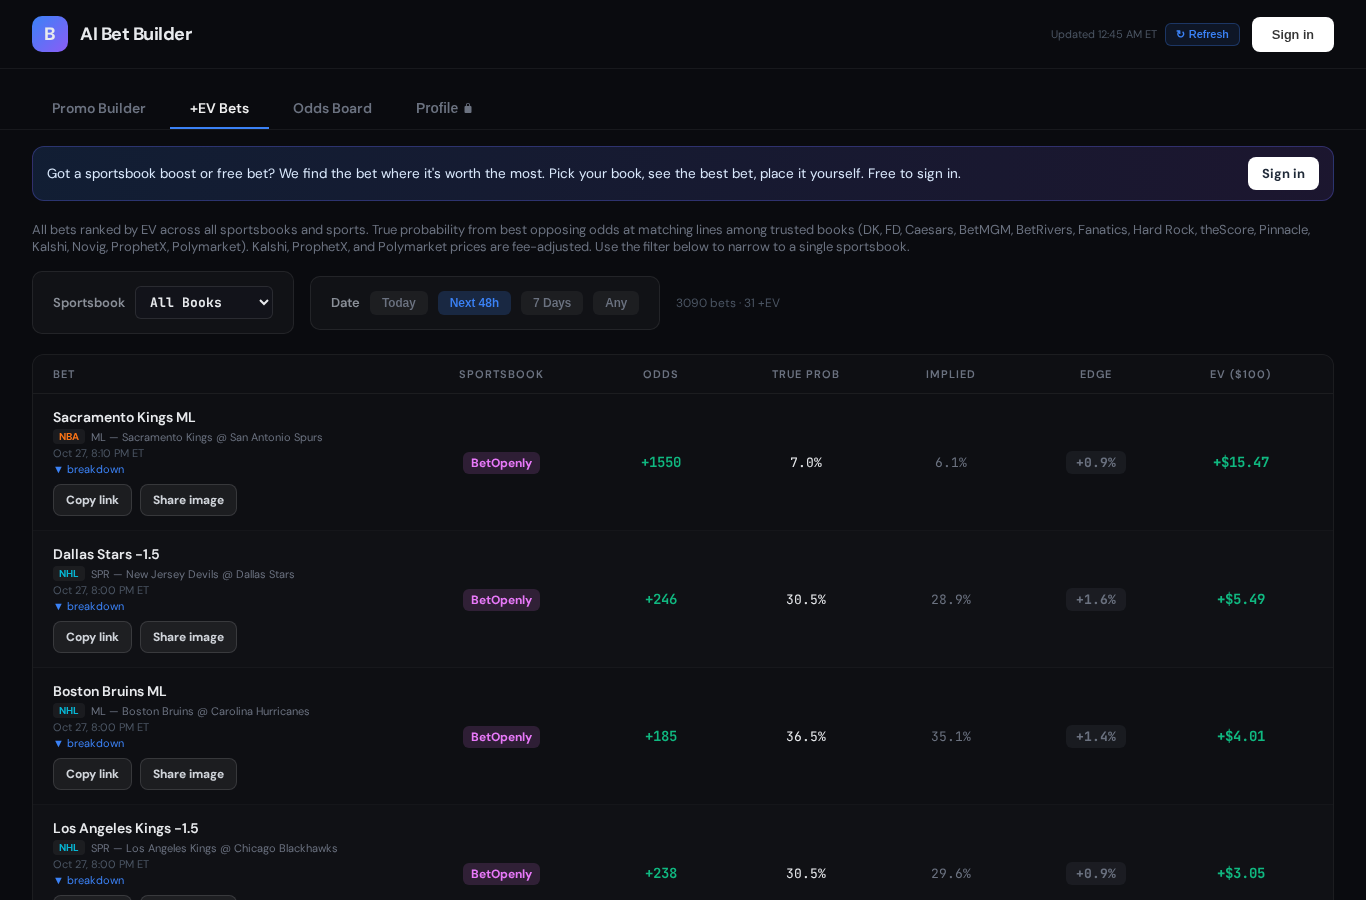
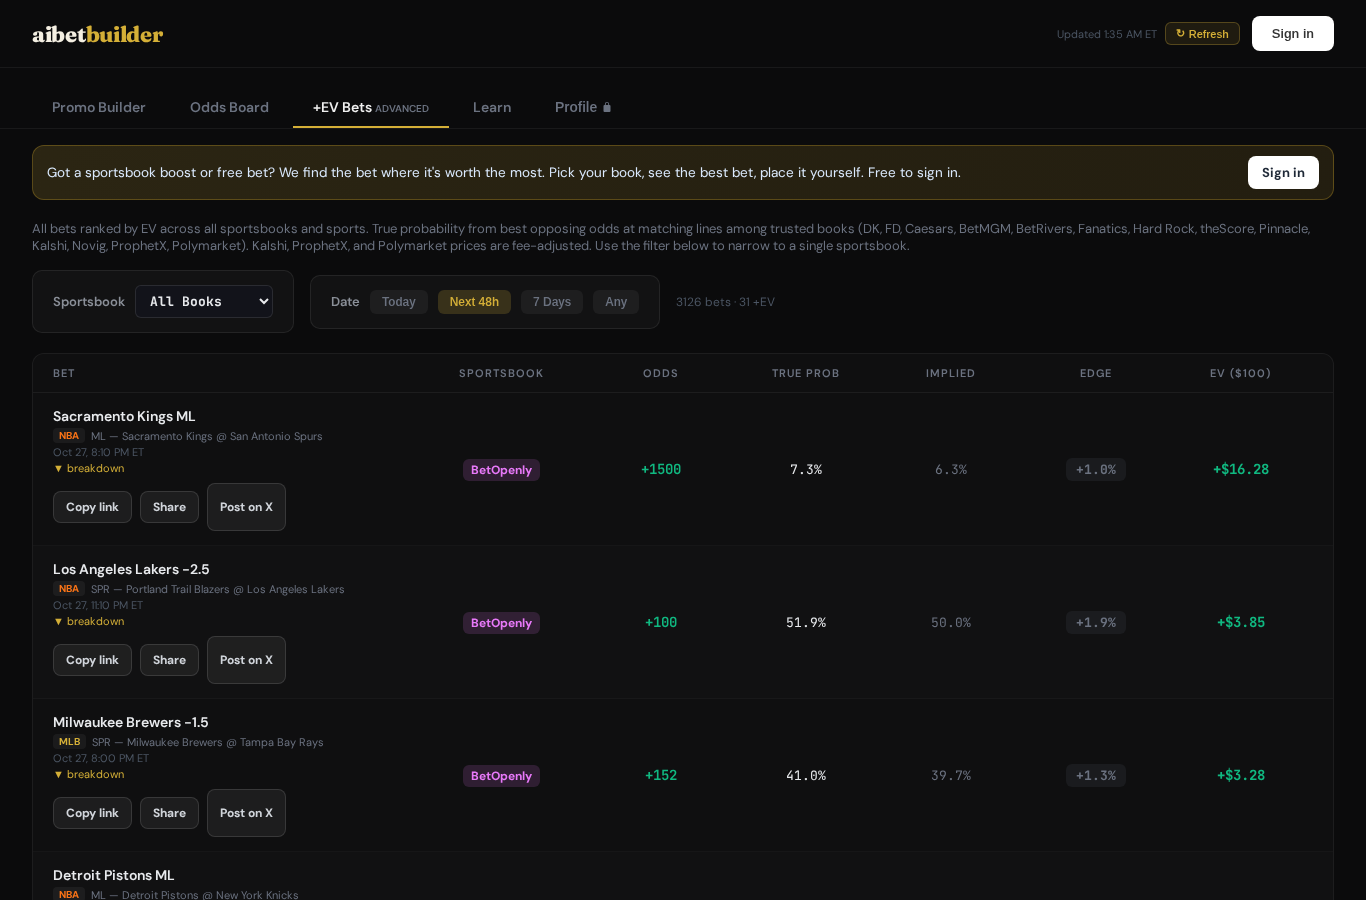
Sign-in page text wordmark + retake landing screenshots in gold theme

diff --git a/src/App.jsx b/src/App.jsx
@@ -1122,8 +1122,7 @@ function LandingFull({ onBack }) {
 
       <div className="lf-nav">
         <div className="lf-brand" onClick={onBack} title="Back to preview">
-          <div className="lf-logo">B</div>
-          <div className="lf-bn">AI Bet Builder</div>
+          <div className="lf-bn" aria-label="AI Bet Builder" style={{ fontFamily: "'Fraunces', Georgia, serif", fontSize: 22, fontWeight: 800, letterSpacing: -0.3, color: "#f4efe2" }}>aibet<span style={{ color: "#d4af37" }}>builder</span></div>
         </div>
         <button className="lf-navcta" onClick={focusSignIn}>Sign in</button>
       </div>
@@ -1185,8 +1184,8 @@ function LandingFull({ onBack }) {
       </div></section>
 
       <div className="lf-footer">
-        <div className="lf-brand" onClick={onBack}><div className="lf-logo" style={{ width: 30, height: 30, fontSize: 16, borderRadius: 8 }}>B</div>
-          <span style={{ fontSize: 14, fontWeight: 600 }}>AI Bet Builder</span></div>
+        <div className="lf-brand" onClick={onBack}>
+          <span aria-label="AI Bet Builder" style={{ fontFamily: "'Fraunces', Georgia, serif", fontSize: 17, fontWeight: 800, letterSpacing: -0.3, color: "#f4efe2" }}>aibet<span style={{ color: "#d4af37" }}>builder</span></span></div>
         <SiteFooterLinks />
         <span className="muted">An analytics tool, not betting advice</span>
       </div>

diff --git a/src/shareCard.test.js b/src/shareCard.test.js
@@ -444,7 +444,7 @@ const stranger = { id: "u2", email: "stranger@gmail.com" };
   assert.doesNotMatch(shareSrc, /Powered by Claude/);
   assert.doesNotMatch(app, /Powered by Claude|Claude|Anthropic/);
   assert.doesNotMatch(indexHtml, /Powered by Claude|Claude|Anthropic/);
-  assert.match(app, /className="lf-bn">AI Bet Builder</);
+  assert.match(app, /className="lf-bn" aria-label="AI Bet Builder"/);
   assert.doesNotMatch(app, /lf-bs/);
   assert.doesNotMatch(app, />aibetbuilder\.io<\/div>/);
   assert.doesNotMatch(app, /shouldFetchFullBoard\(\{ tab: \"promo\"/);
